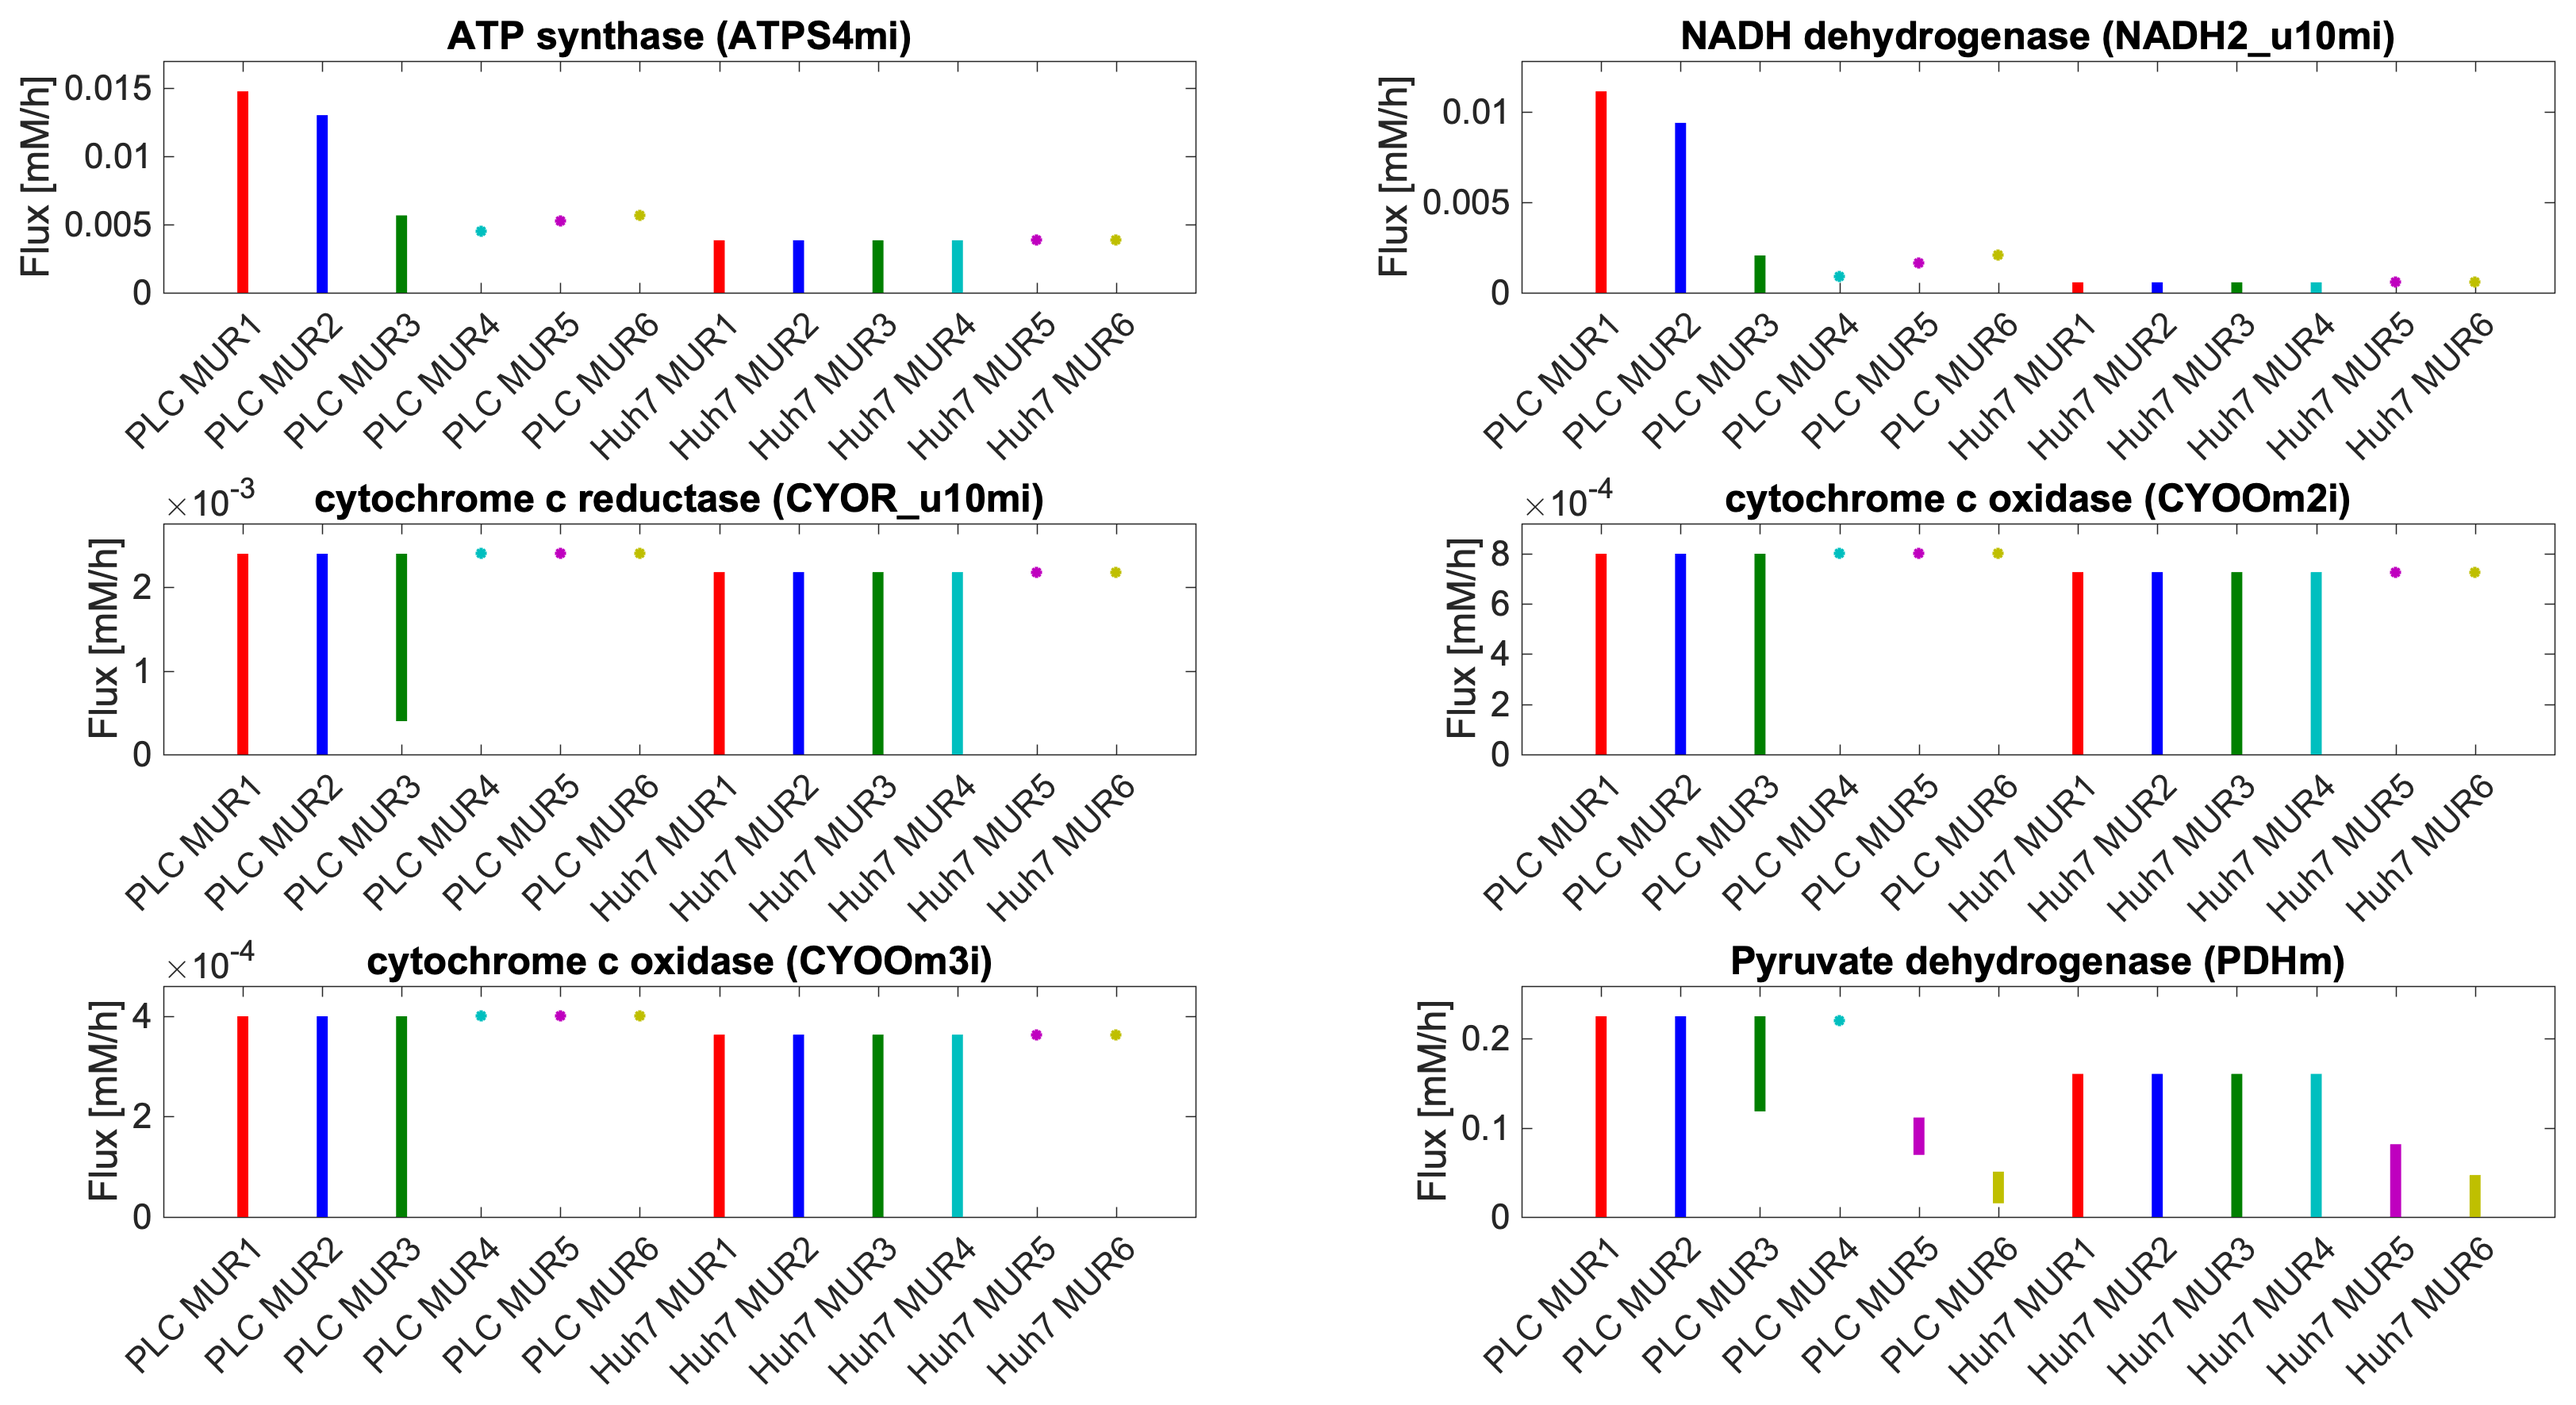
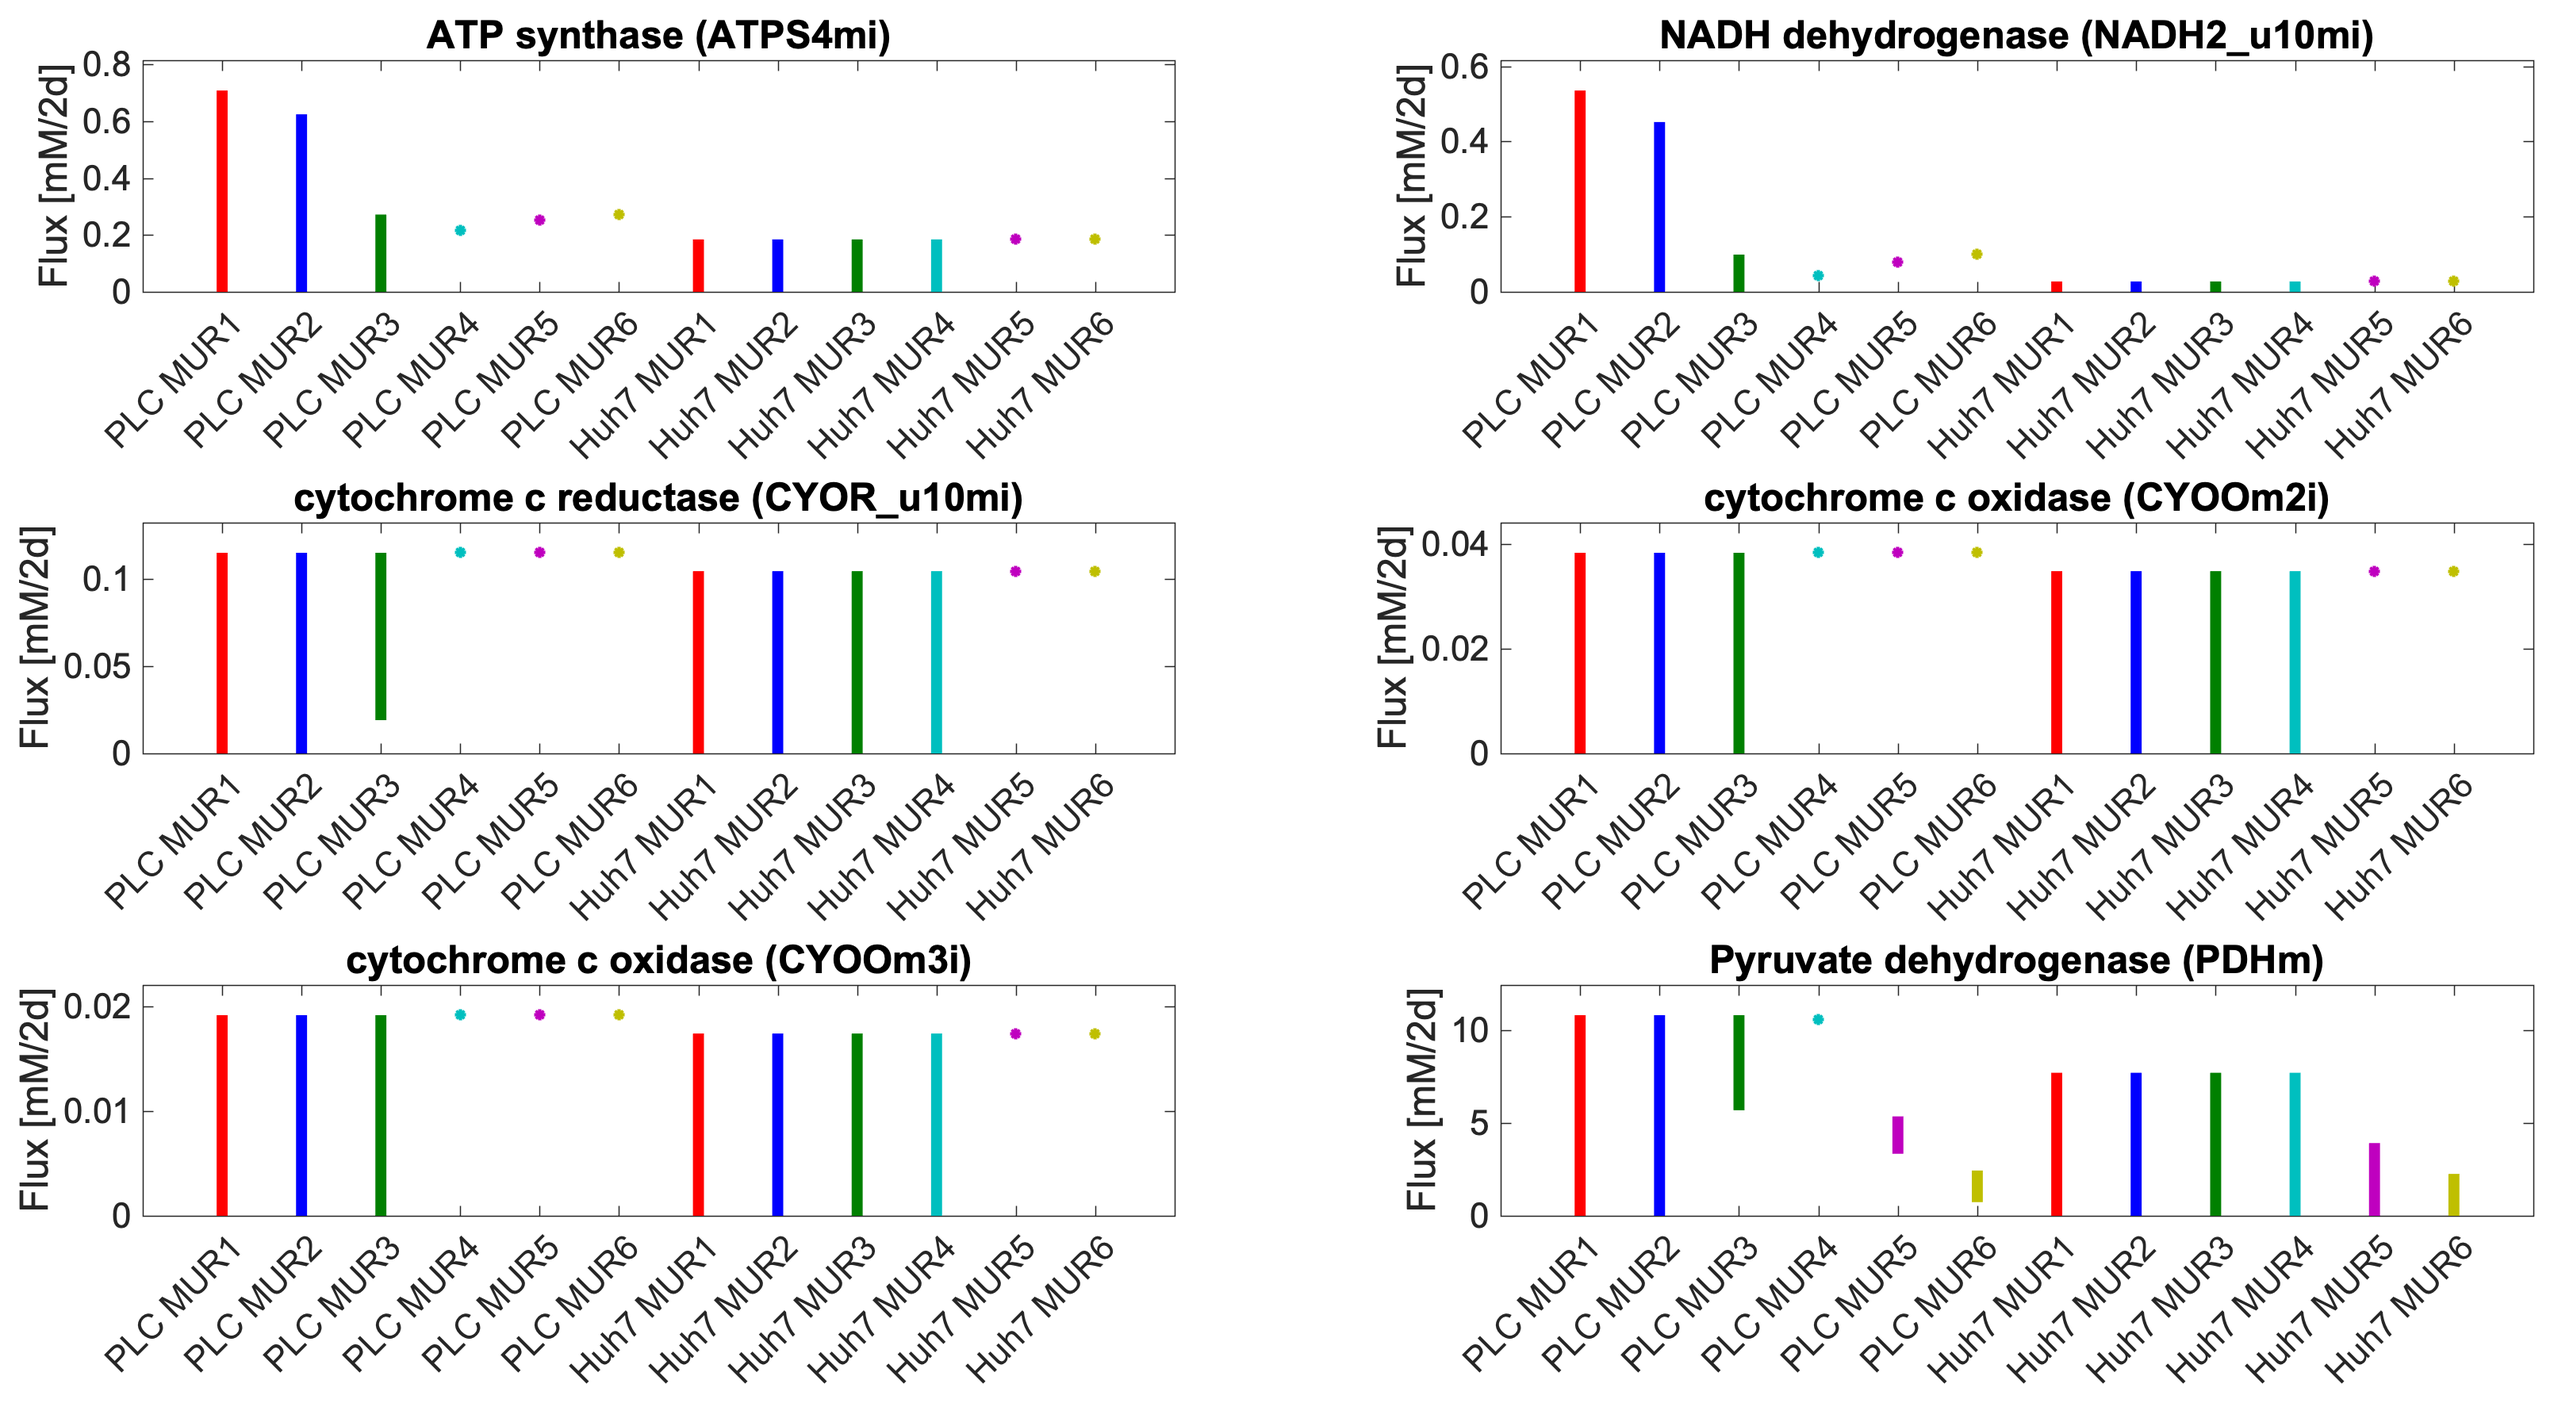
Extrapolate FVA figures to 48 hours

diff --git a/Code/calculate_RAS_and_constrain_medium_models.m b/Code/calculate_RAS_and_constrain_medium_models.m
@@ -205,6 +205,10 @@ for cell_line = {'PLC','Huh7'}
     end
 end
 
+% extrapolate results to 48 hours
+results_min = 48 * results_min;
+results_max = 48 * results_max;
+
 % look at results for things that are close to boundaries
 results_min
 results_max
@@ -261,7 +265,7 @@ for i = 1:length(objectives) % loop over models
     xticklabels({'PLC MUR1','PLC MUR2','PLC MUR3','PLC MUR4','PLC MUR5','PLC MUR6',...
                 'Huh7 MUR1','Huh7 MUR2','Huh7 MUR3','Huh7 MUR4','Huh7 MUR5','Huh7 MUR6'})
     xtickangle(45)
-    ylabel('Flux [mM/h]')
+    ylabel('Flux [mM/2d]')
     title(titles(i))
     
     plot_count = plot_count + 1;
@@ -304,6 +308,10 @@ for cell_line = {'PLC','Huh7'}
     end
 end
 
+% extrapolate results to 48 hours
+results_min = 48 * results_min;
+results_max = 48 * results_max;
+
 % look at results for things that are close to boundaries
 results_min
 results_max
@@ -338,6 +346,10 @@ for cell_line = {'PLC','Huh7'}
         model_count = model_count + 1;
     end
 end
+
+% extrapolate results to 48 hours
+results_min = 48 * results_min;
+results_max = 48 * results_max;
 
 % look at results for things that are close to boundaries
 results_min
@@ -396,7 +408,7 @@ for i = 1:length(objectives) % loop over models
     xticklabels({'PLC MUR1','PLC MUR2','PLC MUR3','PLC MUR4','PLC MUR5','PLC MUR6',...
                 'Huh7 MUR1','Huh7 MUR2','Huh7 MUR3','Huh7 MUR4','Huh7 MUR5','Huh7 MUR6'})
     xtickangle(45)
-    ylabel('Flux [mM/h]')
+    ylabel('Flux [mM/2d]')
     title(titles(i))
     
     plot_count = plot_count + 1;
